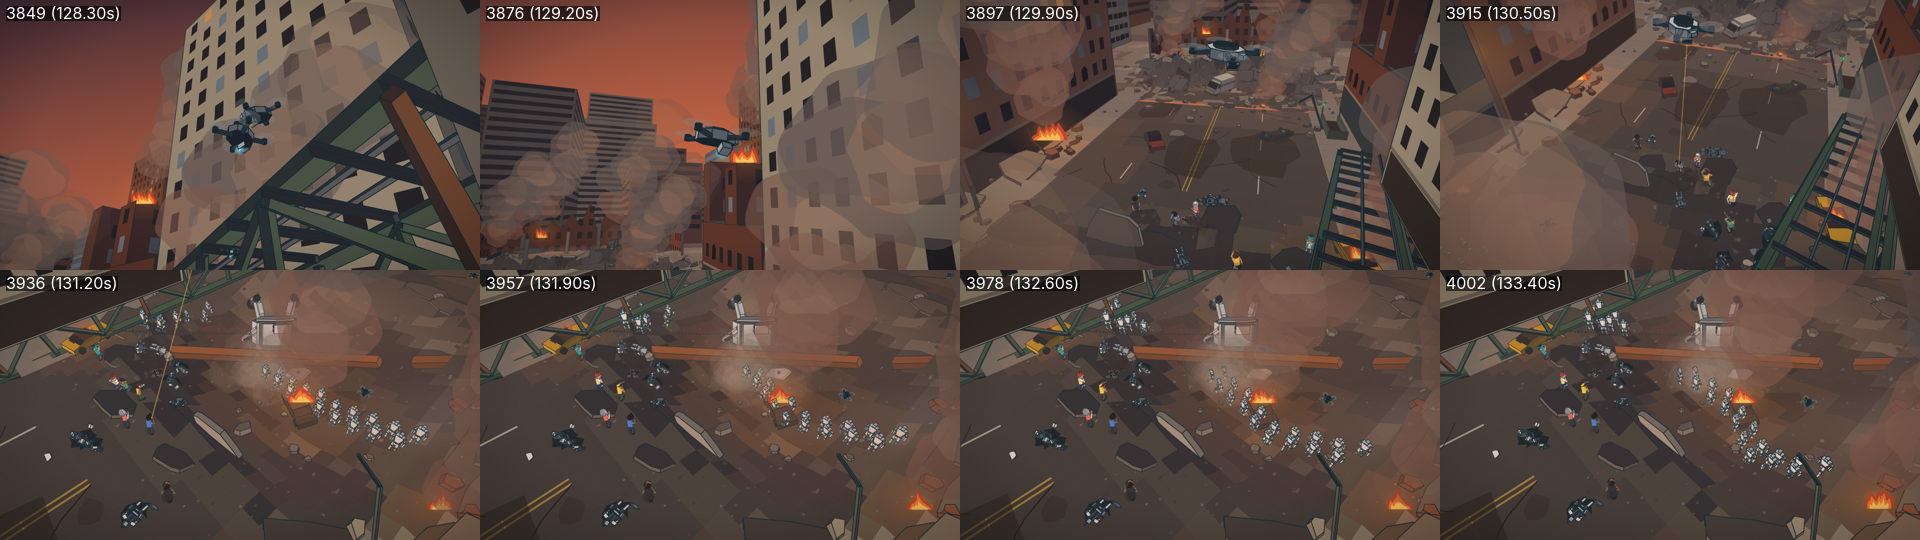
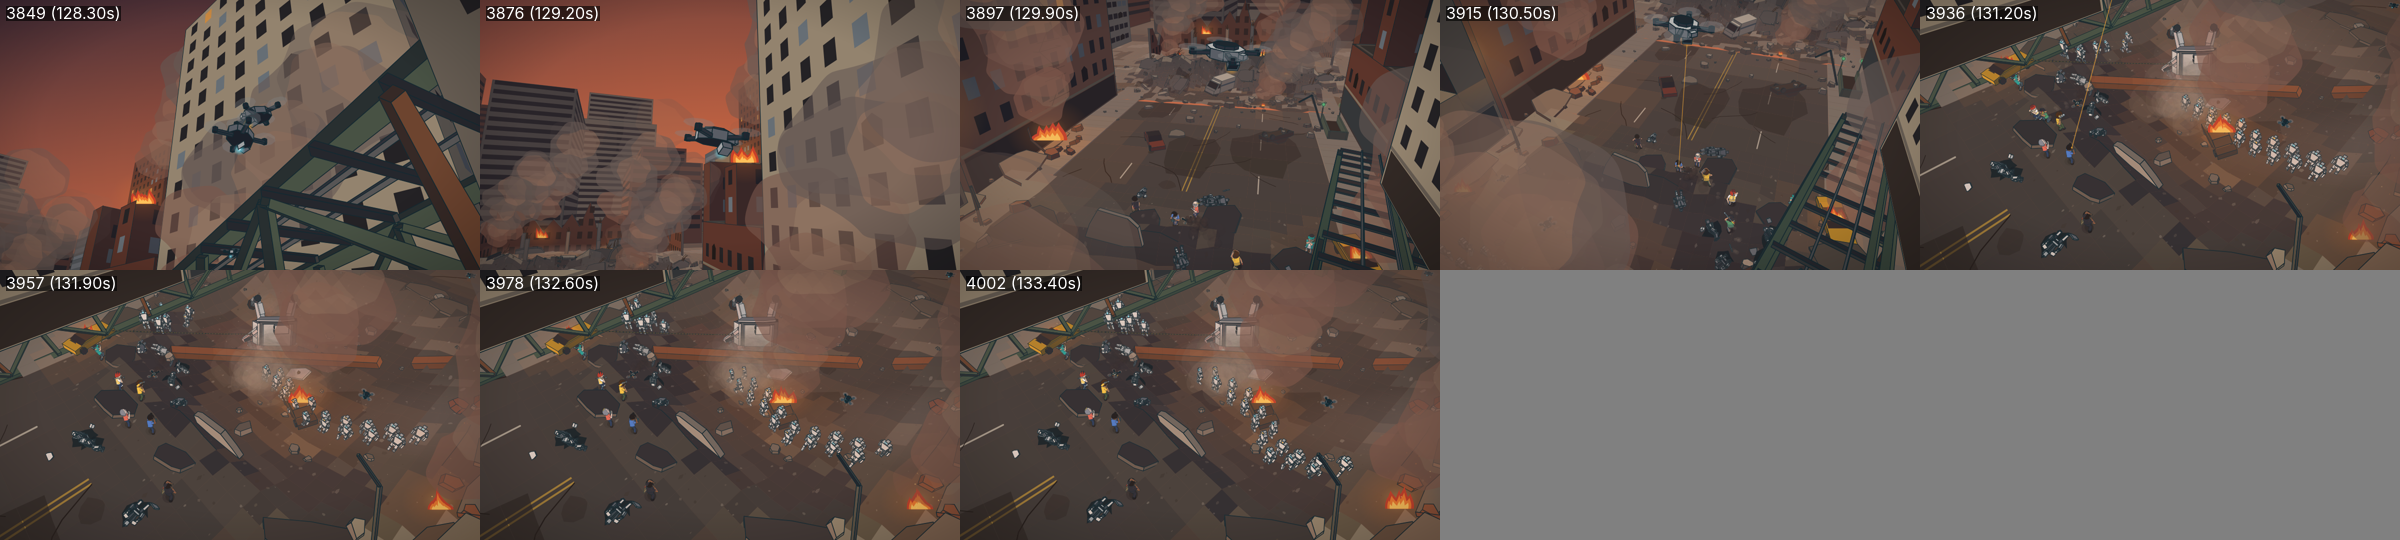
The Last Choice R2: section D3 (heavy 1 falls; the system adapts; heavy 2's blast); water main cut into strips for correct depth sorting in every section
Claude-Session: https://claude.ai/code/session_019a8XshjFgWRBShXtMZ8MbH

diff --git a/Future_Got_Weird/the-last-choice/source/src/r2/engine/mesh.ts b/Future_Got_Weird/the-last-choice/source/src/r2/engine/mesh.ts
@@ -249,3 +249,34 @@ export const chunk = (w: number, h: number, d: number, seed: number, mat: string
 
 export const translate = (m: Mesh, d: V3): Mesh => xfMesh(m, {pos: d});
 export const centroid = (pts: V3[]) => mul3(pts.reduce((s, p) => add3(s, p), {x: 0, y: 0, z: 0}), 1 / pts.length);
+
+/**
+ * Cut every quad whose long sides exceed `maxLen` (m) into strips across them (same vertices and materials; the cuts
+ * are coplanar so they take no ink). Long single faces sort by their middle in the painter's order, so a figure
+ * standing near one end of a long beam can be drawn under all of it; strips sort locally. Shared vertices are merged.
+ */
+export const splitLong = (m: Mesh, maxLen: number): Mesh => {
+  const verts: V3[] = [];
+  const idx = new Map<string, number>();
+  const vi = (p: V3) => {
+    const k = `${p.x.toFixed(4)},${p.y.toFixed(4)},${p.z.toFixed(4)}`;
+    let i = idx.get(k);
+    if (i === undefined) { i = verts.length; verts.push(p); idx.set(k, i); }
+    return i;
+  };
+  const lv = (a: V3, b: V3, k: number): V3 => ({x: a.x + (b.x - a.x) * k, y: a.y + (b.y - a.y) * k, z: a.z + (b.z - a.z) * k});
+  const dist = (a: V3, b: V3) => Math.hypot(a.x - b.x, a.y - b.y, a.z - b.z);
+  const faces: Face[] = [];
+  m.faces.forEach((f) => {
+    const P = f.v.map((i) => m.verts[i]);
+    if (P.length !== 4) { faces.push({...f, v: P.map(vi)}); return; }
+    const a = Math.max(dist(P[0], P[1]), dist(P[3], P[2])), b = Math.max(dist(P[1], P[2]), dist(P[0], P[3]));
+    const [p0, p1, p2, p3] = a >= b ? P : [P[1], P[2], P[3], P[0]];
+    const n = Math.max(1, Math.ceil(Math.max(a, b) / maxLen));
+    for (let s = 0; s < n; s++) {
+      const k0 = s / n, k1 = (s + 1) / n;
+      faces.push({...f, v: [vi(lv(p0, p1, k0)), vi(lv(p0, p1, k1)), vi(lv(p3, p2, k1)), vi(lv(p3, p2, k0))]});
+    }
+  });
+  return {...m, verts, faces};
+};

diff --git a/Future_Got_Weird/the-last-choice/source/src/r2/world/set.tsx b/Future_Got_Weird/the-last-choice/source/src/r2/world/set.tsx
@@ -10,7 +10,7 @@
 //          drawn after it, while a rim or ridge in front of something still covers it
 //   OBJECTS (walls, slabs, wrecks, buildings) — normal mean-depth sort
 import {V3, rnd, add3, mul3, norm3, rotAxis, rad} from '../../kit/math';
-import {View, Item, MeshItem, Prepped, prep, box, merge, xfMesh, Mesh, Face, mix as mixC} from '../engine';
+import {View, Item, MeshItem, Prepped, prep, box, merge, xfMesh, Mesh, Face, mix as mixC, splitLong} from '../engine';
 import {PLAN} from './plan';
 import {groundH, CLEAR_ZONES, isClear, noise2, FOOT} from './ground';
 import {groundGrid, Decal, blobXZ, crackXZ, rebarAt, polyline3, chipsXZ} from './geom';
@@ -305,7 +305,8 @@ const buildStatic = (): Static[] => {
   }
   out.push(meshOf(prep(carMesh('carGrey', 0.3, true)), 'craterCar', {xf: {pos: {x: 57, y: groundH(57, 4) - 0.1, z: 4}, yaw: 32, roll: 12, pitch: -8}}));
   const pipeA = {x: C.center.x - 10, y: -1.0, z: C.center.z - 9}, pipeB = {x: C.center.x + 5, y: -1.8, z: C.center.z + 6};
-  out.push(meshOf(prep(merge(beamPipe(pipeA, pipeB), beamPipe({x: pipeB.x + 2, y: -1.5, z: pipeB.z + 2.5}, {x: pipeB.x + 9, y: -0.7, z: pipeB.z + 10}))), 'waterMain'));
+  // (long faces cut into ≤1.5 m strips so figures near one end sort correctly against the beam)
+  out.push(meshOf(prep(splitLong(merge(beamPipe(pipeA, pipeB), beamPipe({x: pipeB.x + 2, y: -1.5, z: pipeB.z + 2.5}, {x: pipeB.x + 9, y: -0.7, z: pipeB.z + 10})), 1.5)), 'waterMain'));
 
   // THE GIRDER (north flank) with its columns, the crushed taxi
   out.push(meshOf(girderMesh(), 'girder'));
